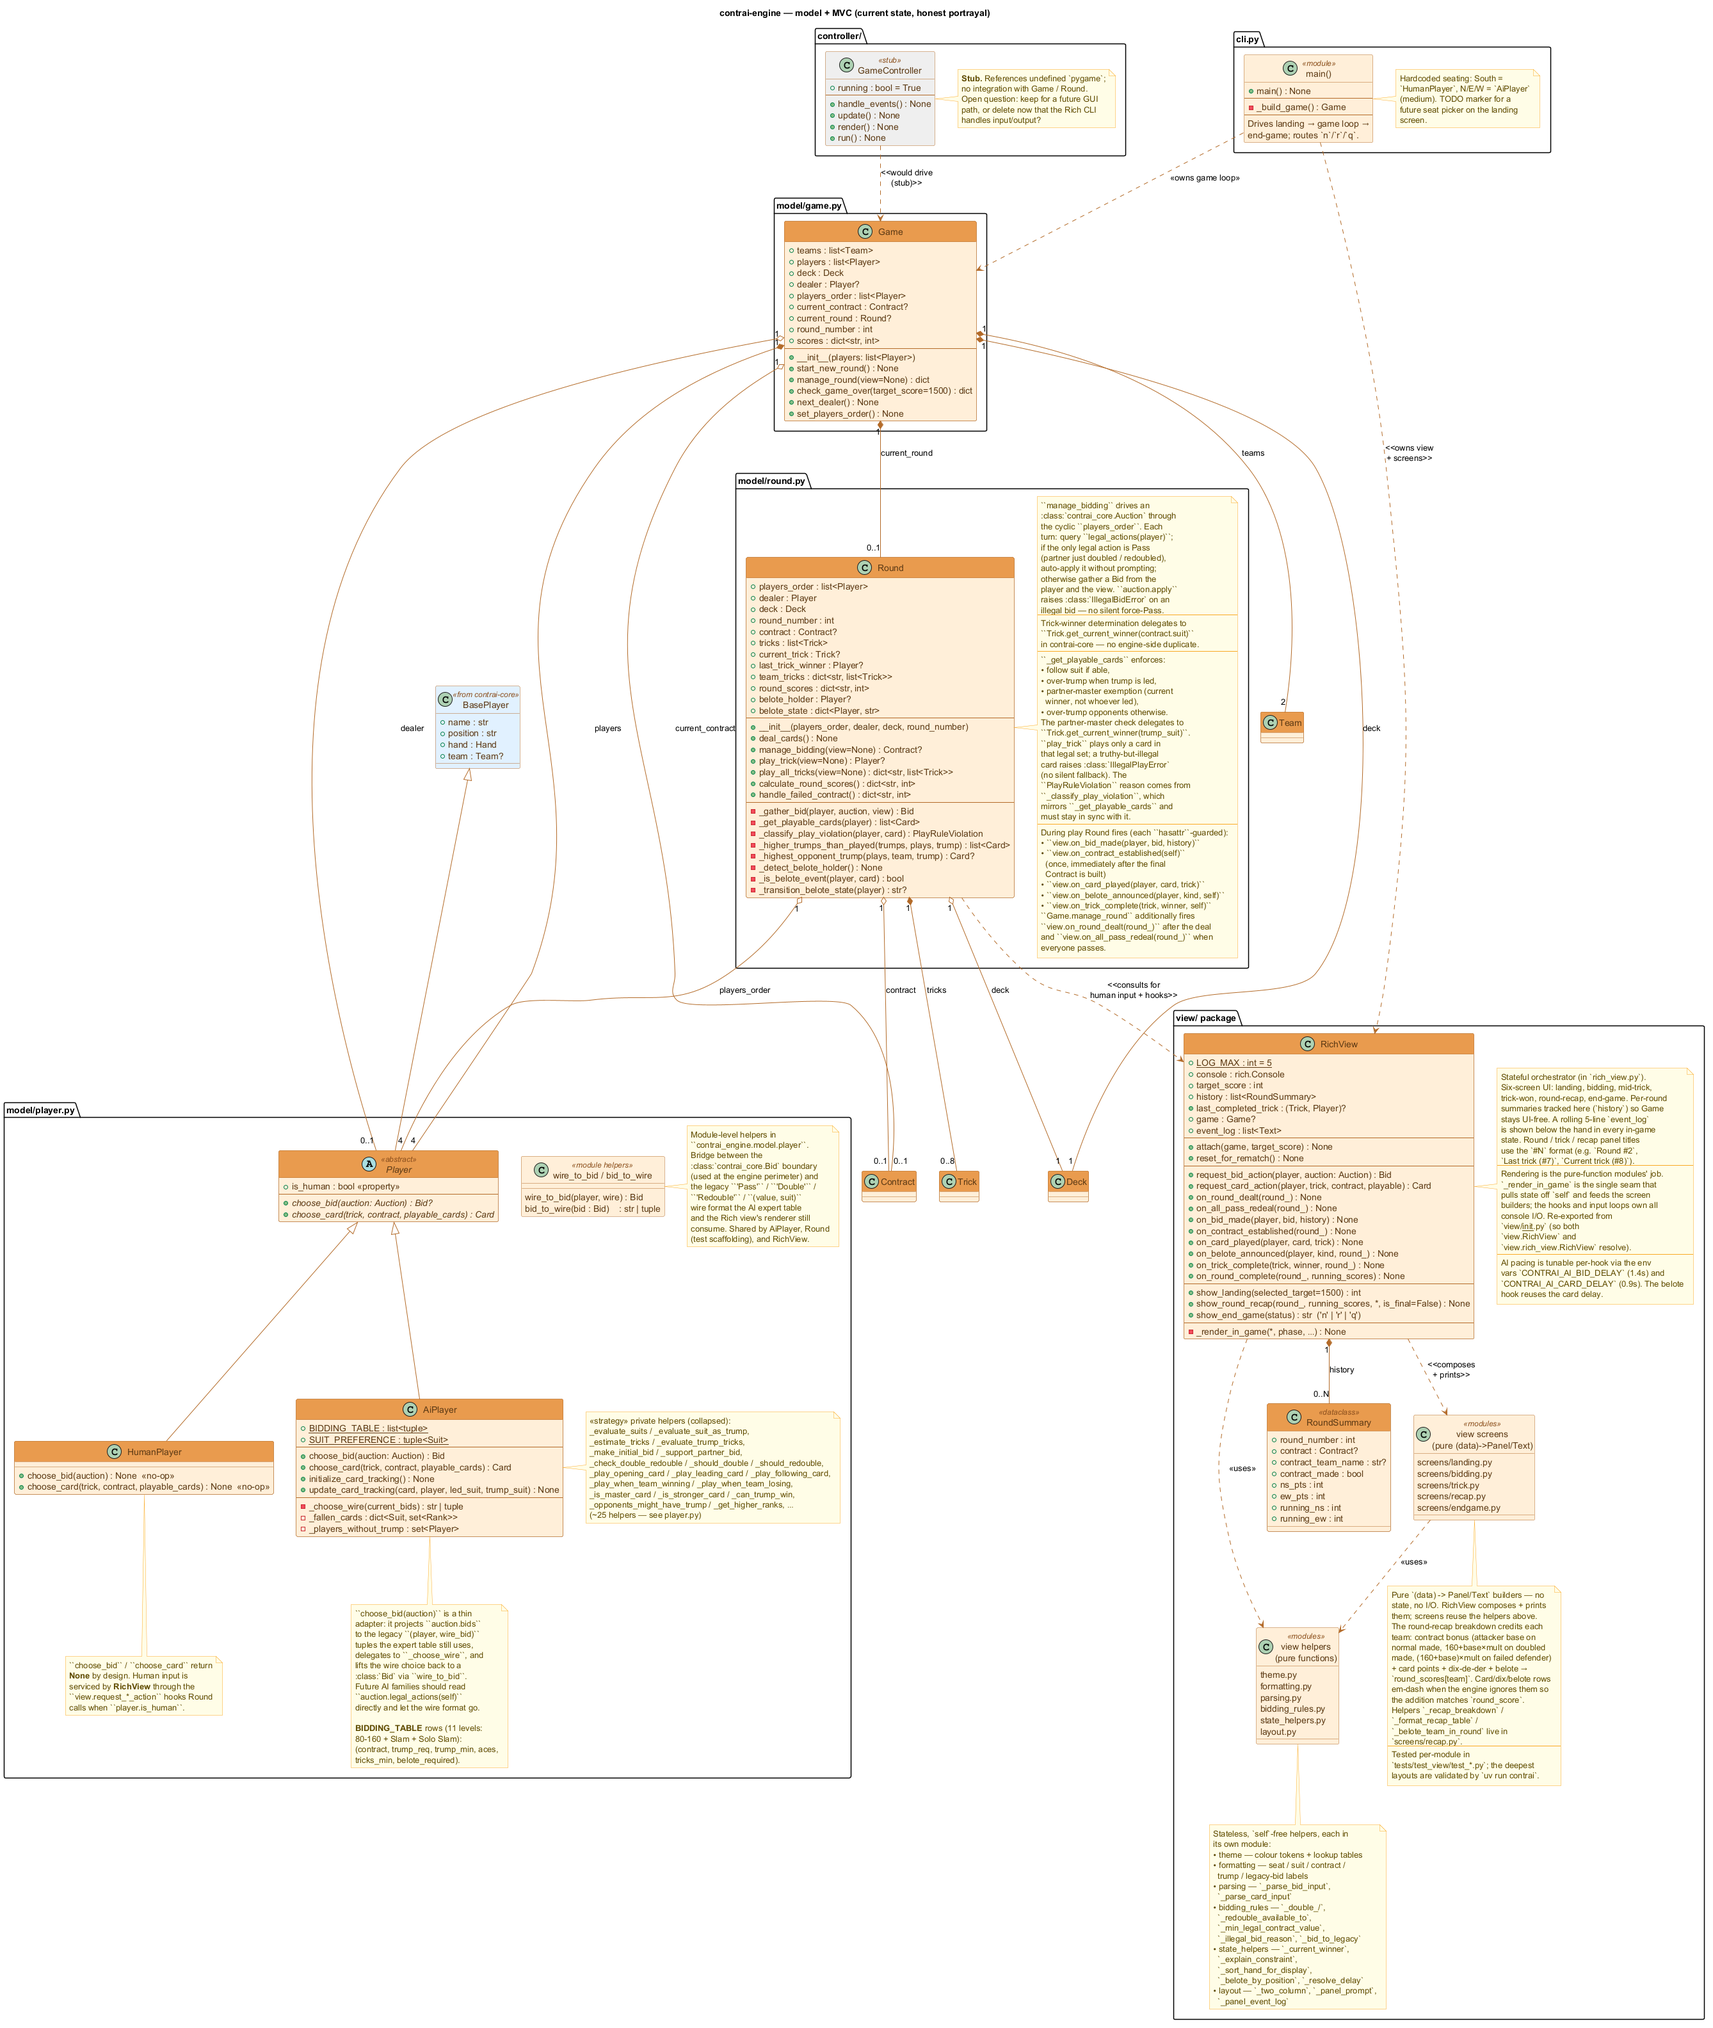
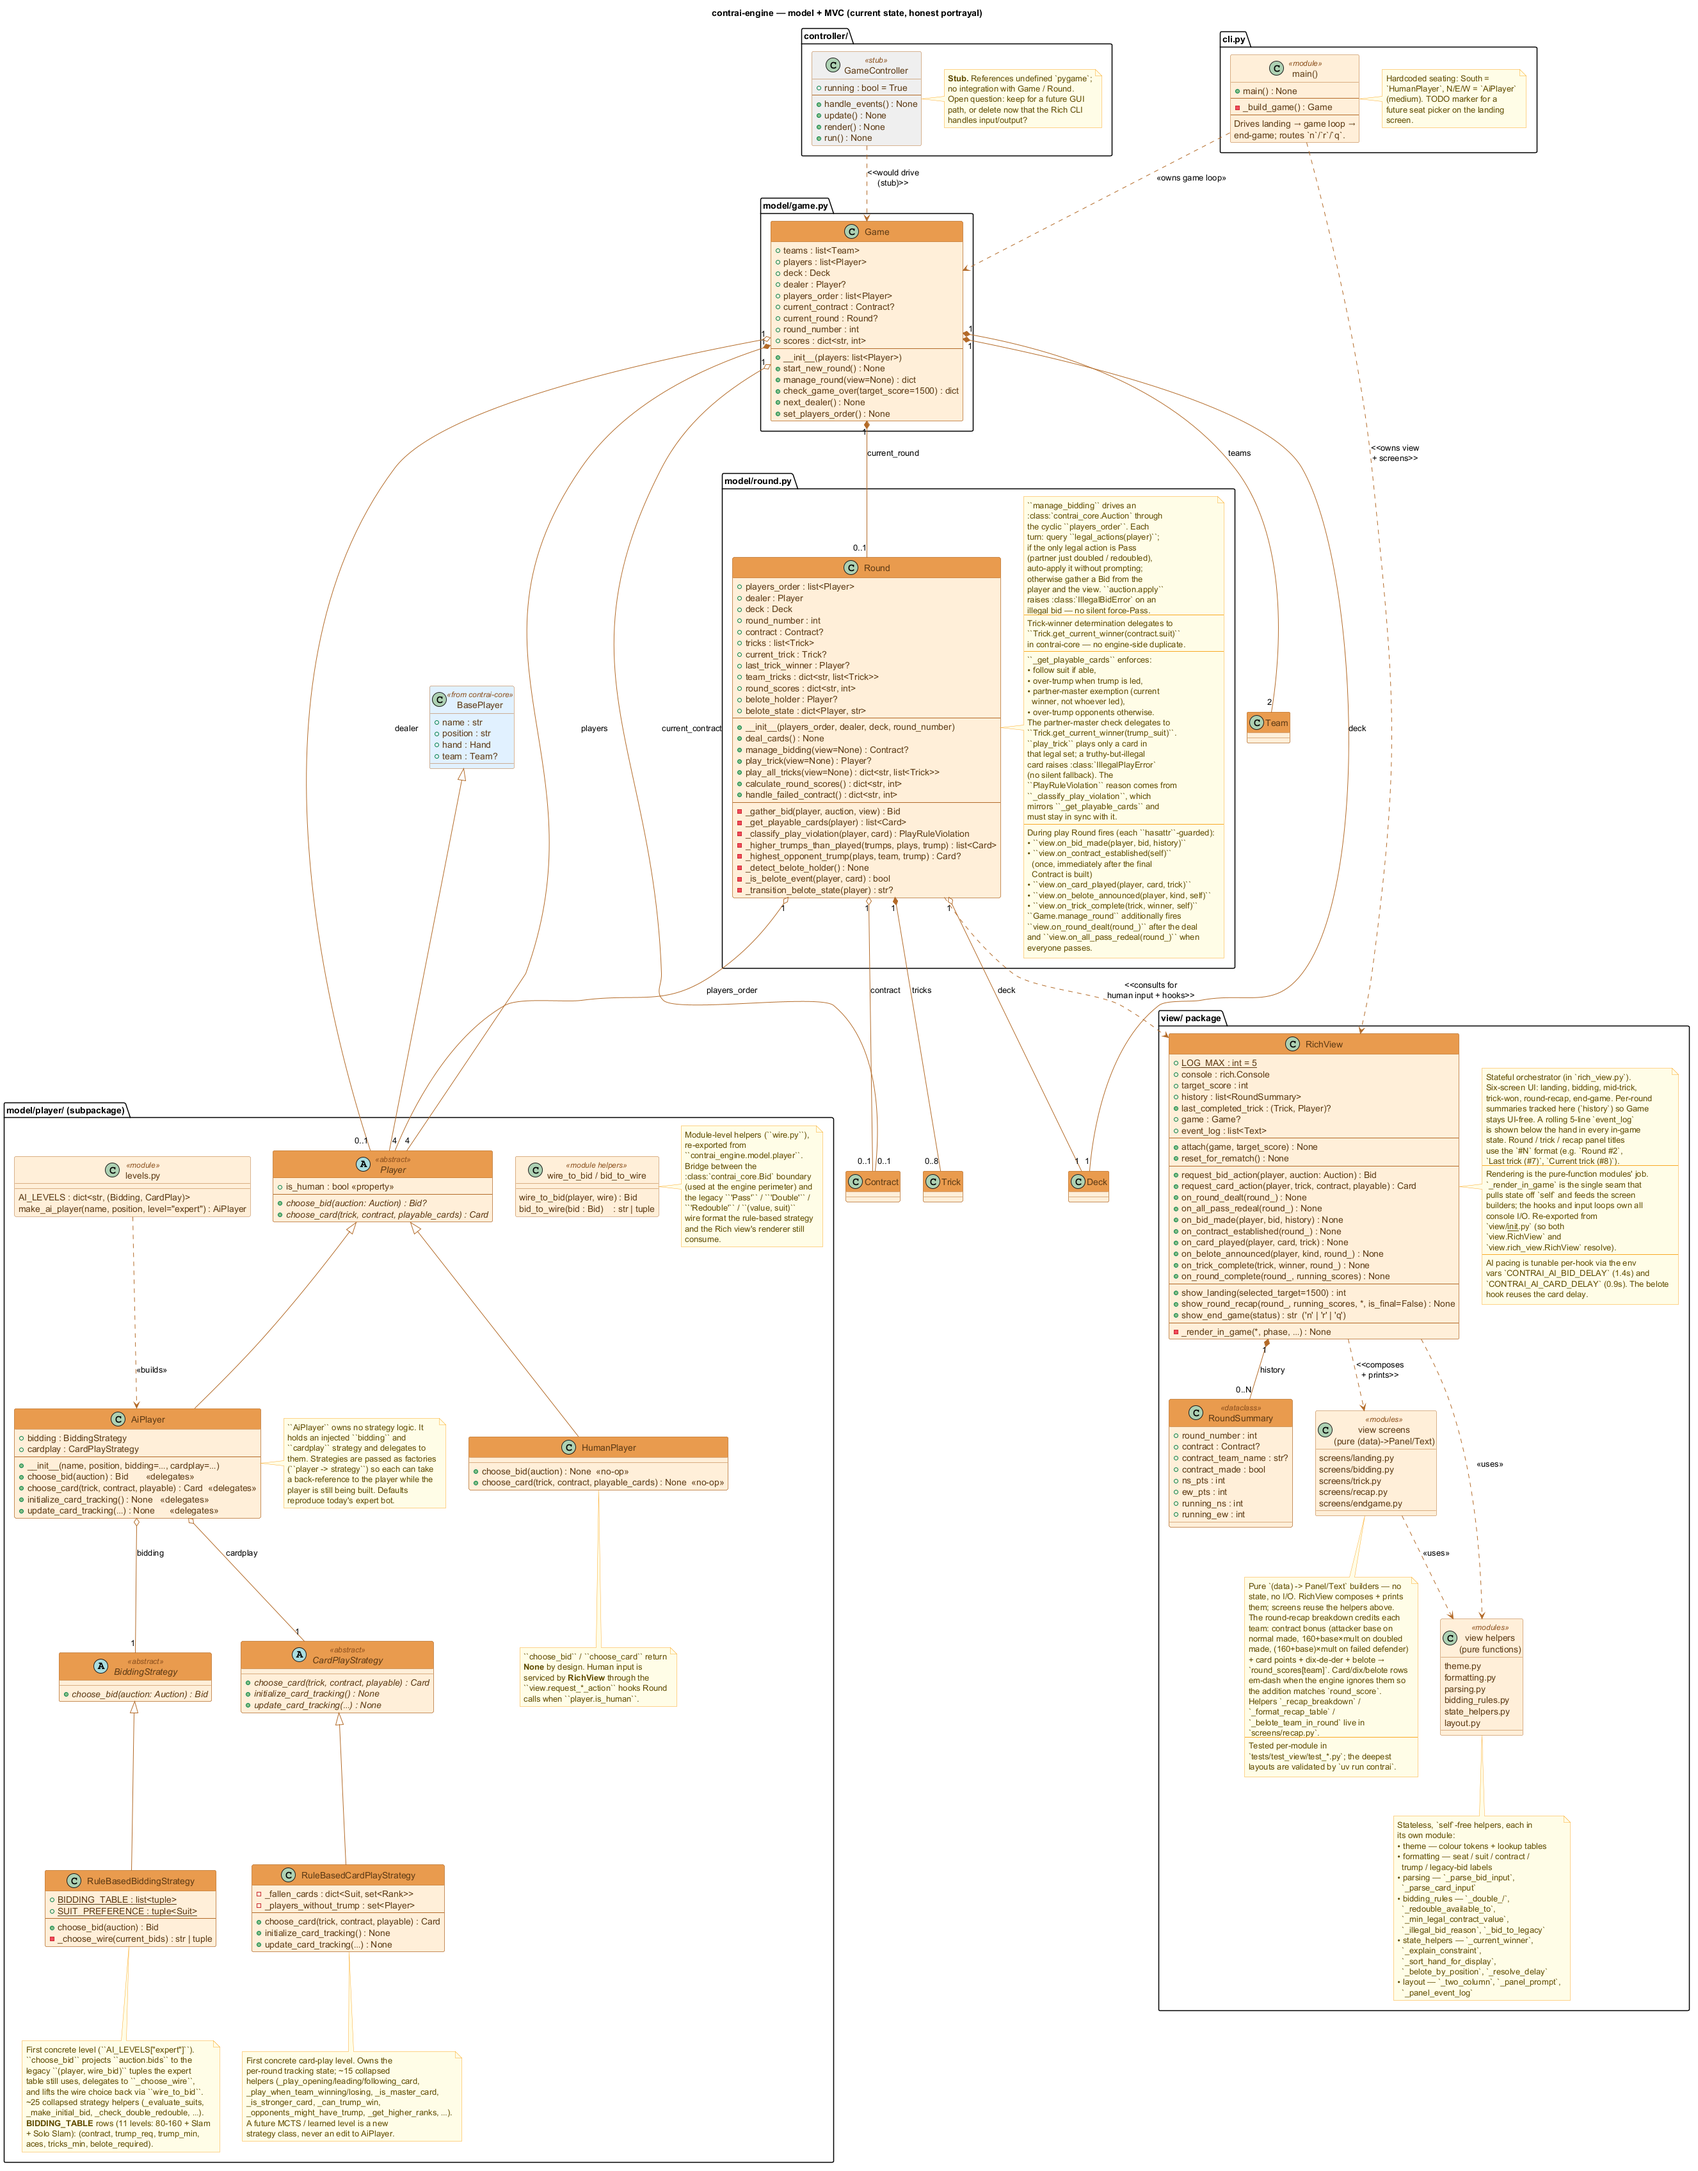
docs(engine): document pluggable AI strategy architecture

diff --git a/docs/engine/index.md b/docs/engine/index.md
@@ -7,7 +7,13 @@ Game engine for Coinche / Contrée. MVC architecture, sits on top of `contrai-co
 Source at `packages/contrai-engine/src/contrai_engine/`:
 
 - `model/` — engine-side model layer:
-  - `player.py` — `Player`, `HumanPlayer`, `AiPlayer` (all extending `BasePlayer` from `contrai-core`)
+  - `player/` — the player subpackage (all classes extend `BasePlayer` from `contrai-core`); `player/__init__.py` re-exports the public names so external imports (`from contrai_engine.model.player import …`) are unchanged:
+    - `base.py` — `Player` (abstract) and `HumanPlayer`
+    - `wire.py` — the temporary `wire_to_bid` / `bid_to_wire` bridge between the legacy wire format and `Bid` objects
+    - `strategy.py` — the `BiddingStrategy` / `CardPlayStrategy` abstract interfaces and the `_PlayerStrategy` mix-in (live read access to the owning player's `hand` / `team` / `position`)
+    - `rule_based.py` — `RuleBasedBiddingStrategy` / `RuleBasedCardPlayStrategy`, the first concrete level (the expert `SF-09` / `SF-10` rules)
+    - `ai.py` — `AiPlayer`, which injects a bidding and a card-play strategy and delegates to them
+    - `levels.py` — the `AI_LEVELS` registry + `make_ai_player()` factory for difficulty selection
   - `game.py` — `Game` (fires `view.on_round_dealt(...)` after the deal and `view.on_all_pass_redeal(...)` when nobody contracts)
   - `round.py` — `Round` (publishes `view.on_bid_made(...)`, `view.on_contract_established(...)`, `view.on_card_played(...)`, `view.on_trick_complete(...)`, and `view.on_belote_announced(...)` so the view can pace and narrate AI turns)
 - `controller/` — `GameController` (partial stub — see [Open work](#open-work))
@@ -30,11 +36,13 @@ Everything else (`Card`, `Deck`, `Hand`, `Suit`, `Rank`, `Bid`, `Contract`, `Tri
 ```plantuml format="svg" source="class_engine.puml"
 ```
 
-`Player` extends `BasePlayer` from `contrai-core` (drawn as a blue boundary element). The two concrete subclasses are `HumanPlayer` (whose `choose_bid` / `choose_card` still return `None` — the `RichView` is what actually services human input through `Round`'s `view.request_*_action` hooks) and `AiPlayer` (full bidding + strategy). `GameController` remains in the grey stub palette: it still references undefined `pygame` and isn't wired to `Game` / `Round`. `RichView` is the live engine view; the old `CliView` placeholder has been removed. See [Diagrams](../diagrams/) for the colour convention.
+`Player` extends `BasePlayer` from `contrai-core` (drawn as a blue boundary element). The two concrete subclasses are `HumanPlayer` (whose `choose_bid` / `choose_card` still return `None` — the `RichView` is what actually services human input through `Round`'s `view.request_*_action` hooks) and `AiPlayer`, which holds an injected `BiddingStrategy` and `CardPlayStrategy` and delegates to them. `GameController` remains in the grey stub palette: it still references undefined `pygame` and isn't wired to `Game` / `Round`. `RichView` is the live engine view; the old `CliView` placeholder has been removed. See [Diagrams](../diagrams/) for the colour convention.
 
 ## AI players
 
-`AiPlayer` implements the expert bidding table (80–160 plus Slam and Solo Slam) and the card-play strategy from the functional specs (`SF-09`, `SF-10`). The ~25 private strategy helpers are summarised on the class diagram above as a collapsed `<<strategy>>` note. `choose_card` lazy-initialises card tracking on first call (no need for callers to remember `initialize_card_tracking`), and consumes the real `Contract` object from `Round` rather than the legacy `(player, value, suit)` tuple some older tests once passed.
+`AiPlayer` owns no strategic logic of its own. It holds two strategy objects behind the abstract `BiddingStrategy` / `CardPlayStrategy` interfaces (`strategy.py`) and routes `choose_bid` / `choose_card` / the card-tracking hooks to them. Strategies are supplied at construction as **factories** (`player -> strategy`, i.e. the strategy class itself), resolving the chicken-and-egg of a strategy that needs a back-reference to the player while the player is still being built; the `_PlayerStrategy` mix-in then gives each strategy live read access to the player's `hand` / `team` / `position`. The defaults reproduce today's bot, so `AiPlayer("Bot", "South")` is unchanged.
+
+The first concrete level is the rule-based pair (`rule_based.py`): `RuleBasedBiddingStrategy` implements the expert bidding table (80–160 plus Slam and Solo Slam) and `RuleBasedCardPlayStrategy` the card-play strategy from the functional specs (`SF-09`, `SF-10`). Future AI levels (MCTS, learned policies — AI roadmap §6) are new strategy classes, never edits to `AiPlayer`; a thin `AI_LEVELS` registry + `make_ai_player(name, position, level="expert")` factory (`levels.py`) gives ergonomic difficulty selection on top, while the raw `AiPlayer(..., bidding=…, cardplay=…)` form stays available for mix-and-match (e.g. rule-based bidding + a learned card-play). The strategy object is also the natural home for a future explainability rule-trace (§6.1). `choose_card` lazy-initialises card tracking on first call (no need for callers to remember `initialize_card_tracking`), and consumes the real `Contract` object from `Round` rather than the legacy `(player, value, suit)` tuple some older tests once passed.
 
 When the AI's team is currently winning the trick (`_play_when_team_winning`) and the AI cannot follow the led suit, the rule is *don't waste trumps*: prefer a non-trump discard over playing a trump card, even though a trump would add more points to the pile. Within the non-trump discard pool the AI prefers non-master cards (preserving cards that can still win their suit later) and picks the highest-points to maximise this trick's value. Only when the hand has nothing left but trumps does the AI play one — and it picks the lowest trump in that case, so the Jack or 9 of trump aren't dumped onto an already-won trick.
 
@@ -104,6 +112,6 @@ The two zoom diagrams below break out the dense parts.
 - `Round` now has its first dedicated pytest file (`tests/test_model/test_round.py`) covering the `_get_playable_cards` legality oracle, the `_classify_play_violation` reason classifier and `play_trick`'s `IllegalPlayError` raise on an illegal card, the belote tracking helpers, and the auction-driven integration test that the human seat is never prompted when their partner has doubled. The lifecycle path (`manage_bidding` end-to-end / `play_all_tricks` / `calculate_round_scores`) is still un-tested past that single integration scenario — backfill needed.
 - The screen `Panel`/`Table` *builders* (now pure functions under `view/screens/` and `view/layout.py`, no longer `RichView` methods) are lightly covered: title/text smoke tests for the round panel, bidding-history, event-log, recap tables, and the diamond's belote badge, in the matching `test_view/test_*.py` files. Layouts that aren't asserted on are still validated by `uv run contrai` smoke-running.
 - `GameController` is still the lone surviving stub (see the grey box on the class diagram). It references undefined `pygame` and isn't wired to `Game` / `Round` — open question whether to delete it now that the Rich CLI doesn't need a separate controller, or keep it for a future GUI path.
-- Sweep `AiPlayer` private helpers for any remaining `contract[…]` indexing residues — the four visible call sites were fixed during CLI work but a defensive pass through the strategy code would not hurt.
-- `_check_double_redouble` in `AiPlayer._choose_wire` still uses the legacy-format `last_bid` to detect a prior Double; the inner check `last_bid == 'Double'` shadows the earlier `isinstance(last_bid, tuple)` guard so AI redouble is effectively gated on a `TODO`. Worth revisiting alongside the next AI bidding refactor — the cleanest fix is to read `auction.has_double` / `auction.has_redouble` directly instead of inferring from the wire history.
-- AI strategy consumes `Auction.legal_actions(self)` indirectly today (through the wire-format adapter). A future cleanup should make the expert helpers (`_get_last_bid`, `_get_partner_bid`, `_check_double_redouble`) query the Auction directly and let `wire_to_bid` / `bid_to_wire` retire.
+- Sweep the rule-based strategy private helpers for any remaining `contract[…]` indexing residues — the four visible call sites were fixed during CLI work but a defensive pass through `rule_based.py` would not hurt.
+- `_check_double_redouble` in `RuleBasedBiddingStrategy._choose_wire` still uses the legacy-format `last_bid` to detect a prior Double; the inner check `last_bid == 'Double'` shadows the earlier `isinstance(last_bid, tuple)` guard so AI redouble is effectively gated on a `TODO`. Worth revisiting alongside the next AI bidding refactor — the cleanest fix is to read `auction.has_double` / `auction.has_redouble` directly instead of inferring from the wire history.
+- The rule-based strategy consumes `Auction.legal_actions(self)` indirectly today (through the wire-format adapter). A future cleanup should make the expert helpers (`_get_last_bid`, `_get_partner_bid`, `_check_double_redouble`) query the Auction directly and let `wire_to_bid` / `bid_to_wire` retire.

diff --git a/docs/ai-ladder/rule_based.md b/docs/ai-ladder/rule_based.md
@@ -1,7 +1,7 @@
 # Rule-based AI
 
-Hand-coded expert strategies. Currently implemented as `AiPlayer` in `contrai-engine` (expert bidding table + card-play heuristics; specs SF-09, SF-10).
+Hand-coded expert strategies (expert bidding table + card-play heuristics; specs SF-09, SF-10). They are the **first concrete rung** of the AI ladder, implemented in `contrai-engine` as the `RuleBasedBiddingStrategy` / `RuleBasedCardPlayStrategy` pair — concrete implementations of the `BiddingStrategy` / `CardPlayStrategy` interfaces. They are injected into `AiPlayer` (the default strategies) and registered as `AI_LEVELS["expert"]`, so a future MCTS or learned level is a new strategy class rather than an edit to `AiPlayer`. See the [engine docs](../engine/index.md#ai-players) for the injection seam.
 
-**Explainability:** the rule trace is the rationale — log which rule fired for each bid/play.
+**Explainability:** the rule trace is the rationale — log which rule fired for each bid/play. The strategy object is the natural home for that trace (AI roadmap §6.1).
 
 > TODO: rule catalogue; planned extensions (deeper card counting, partner inference, signal-based bidding).
